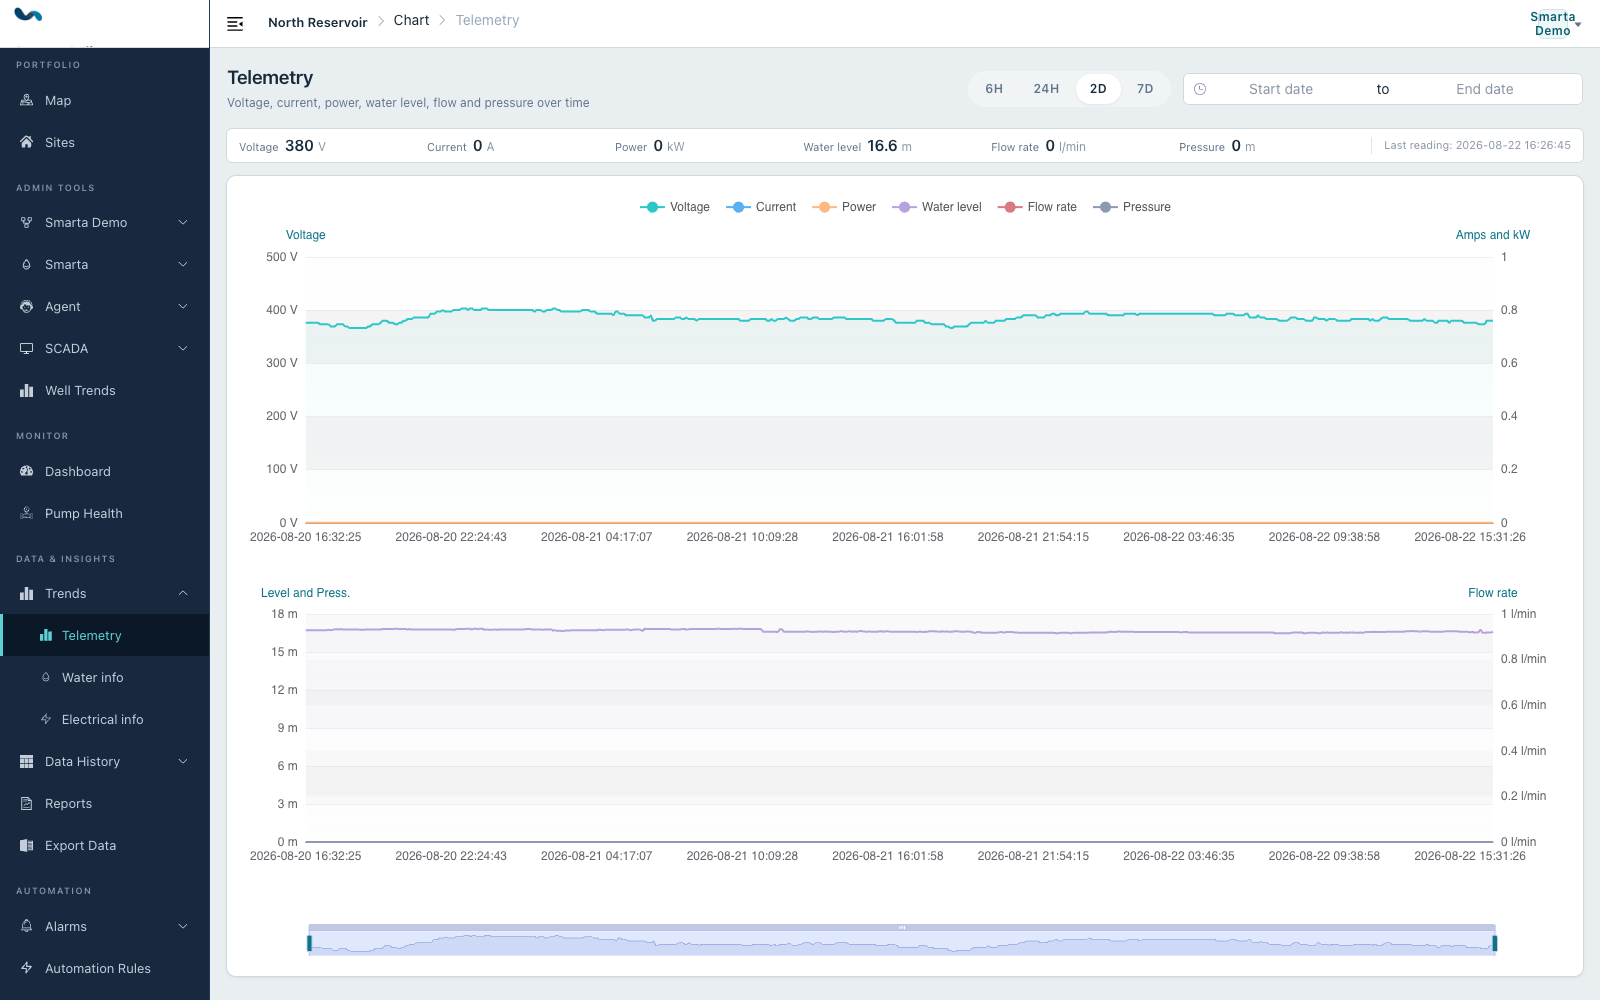
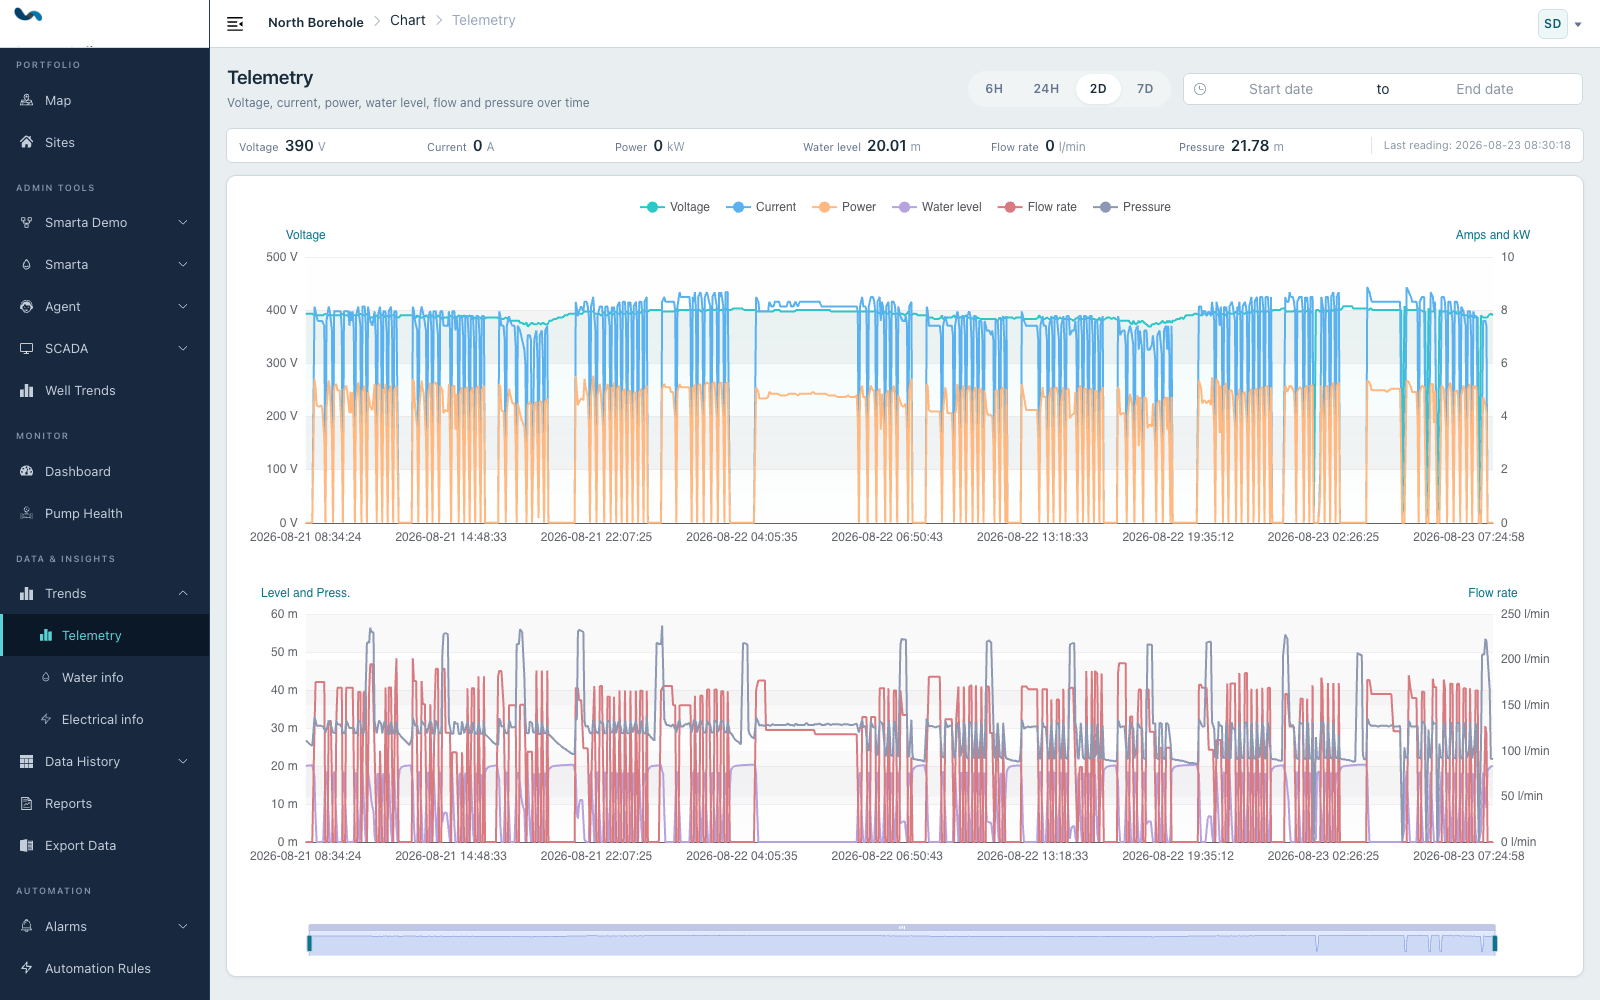
Show dynamic Smarta telemetry graph

diff --git a/index.html b/index.html
@@ -291,7 +291,7 @@
             <div class="online-preview-copy">
               <p class="eyebrow">Smarta Online</p>
               <h3>See what changed, and when.</h3>
-              <p>This two-day view shows voltage and water level at one reservoir. Your team can use the same web platform for alarms, reports and automation rules.</p>
+              <p>This two-day view shows a borehole starting and stopping, with the water level, flow and pressure changing alongside it. Smarta Online keeps the graph, alarms, reports and automatic controls in one place.</p>
               <ul>
                 <li>Live and historical graphs</li>
                 <li>Reports and data export</li>
@@ -302,7 +302,7 @@
             <figure class="online-preview-screen">
               <picture>
                 <source type="image/webp" srcset="images/platform/smarta-online-telemetry-anonymised.webp">
-                <img src="images/platform/smarta-online-telemetry-anonymised.jpg" alt="Smarta Online telemetry graph for an anonymised reservoir showing voltage and water level over two days" width="1600" height="1000" loading="lazy" decoding="async">
+                <img src="images/platform/smarta-online-telemetry-anonymised.jpg" alt="Smarta Online telemetry graph for an anonymised borehole showing pump cycles, water level, flow and pressure over two days" width="1600" height="1000" loading="lazy" decoding="async">
               </picture>
             </figure>
           </div>

diff --git a/assets/ASSET_MANIFEST.md b/assets/ASSET_MANIFEST.md
@@ -50,9 +50,9 @@ Reservoir screenshot edit prompt:
 
 | Repository source | Web derivative | Provenance |
 | --- | --- | --- |
-| `originals/platform-screenshots/smarta-online-telemetry-anonymised.png` | `../images/platform/smarta-online-telemetry-anonymised.jpg` and `.webp` | Current Smarta Online telemetry screen captured on 22 August 2026. API responses and visible text were rewritten in memory before capture so the public asset contains only the aliases `North Reservoir` and `Smarta Demo`; no customer name, user name, site identifier, credential or location was written to the asset. |
+| `originals/platform-screenshots/smarta-online-telemetry-anonymised.png` | `../images/platform/smarta-online-telemetry-anonymised.jpg` and `.webp` | Current Smarta Online telemetry screen captured on 23 August 2026 after a read-only comparison of recently reporting boreholes and reservoirs. The selected two-day borehole view shows repeated pump cycles and changing water telemetry. API responses and visible text were rewritten in memory before capture so the public asset contains only the aliases `North Borehole` and `Smarta Demo`; no customer name, user name, site identifier, credential or location was written to the asset. |
 
-The repeatable capture utility is retained at `../scripts/capture-anonymised-product-screenshots.mjs`. It requires credentials through temporary environment variables, performs a read-only reservoir scan, verifies that private labels are absent and writes only anonymised output. Credentials are never written to the repository.
+The repeatable capture utility is retained at `../scripts/capture-anonymised-product-screenshots.mjs`. It requires credentials through temporary environment variables, performs a read-only scan of recent two-day and seven-day telemetry, rejects isolated device dropouts when ranking candidates, verifies that the rendered graph belongs to the selected site, verifies that private labels are absent and writes only anonymised output. Credentials are never written to the repository.
 
 ## Generated brand-supporting image
 
